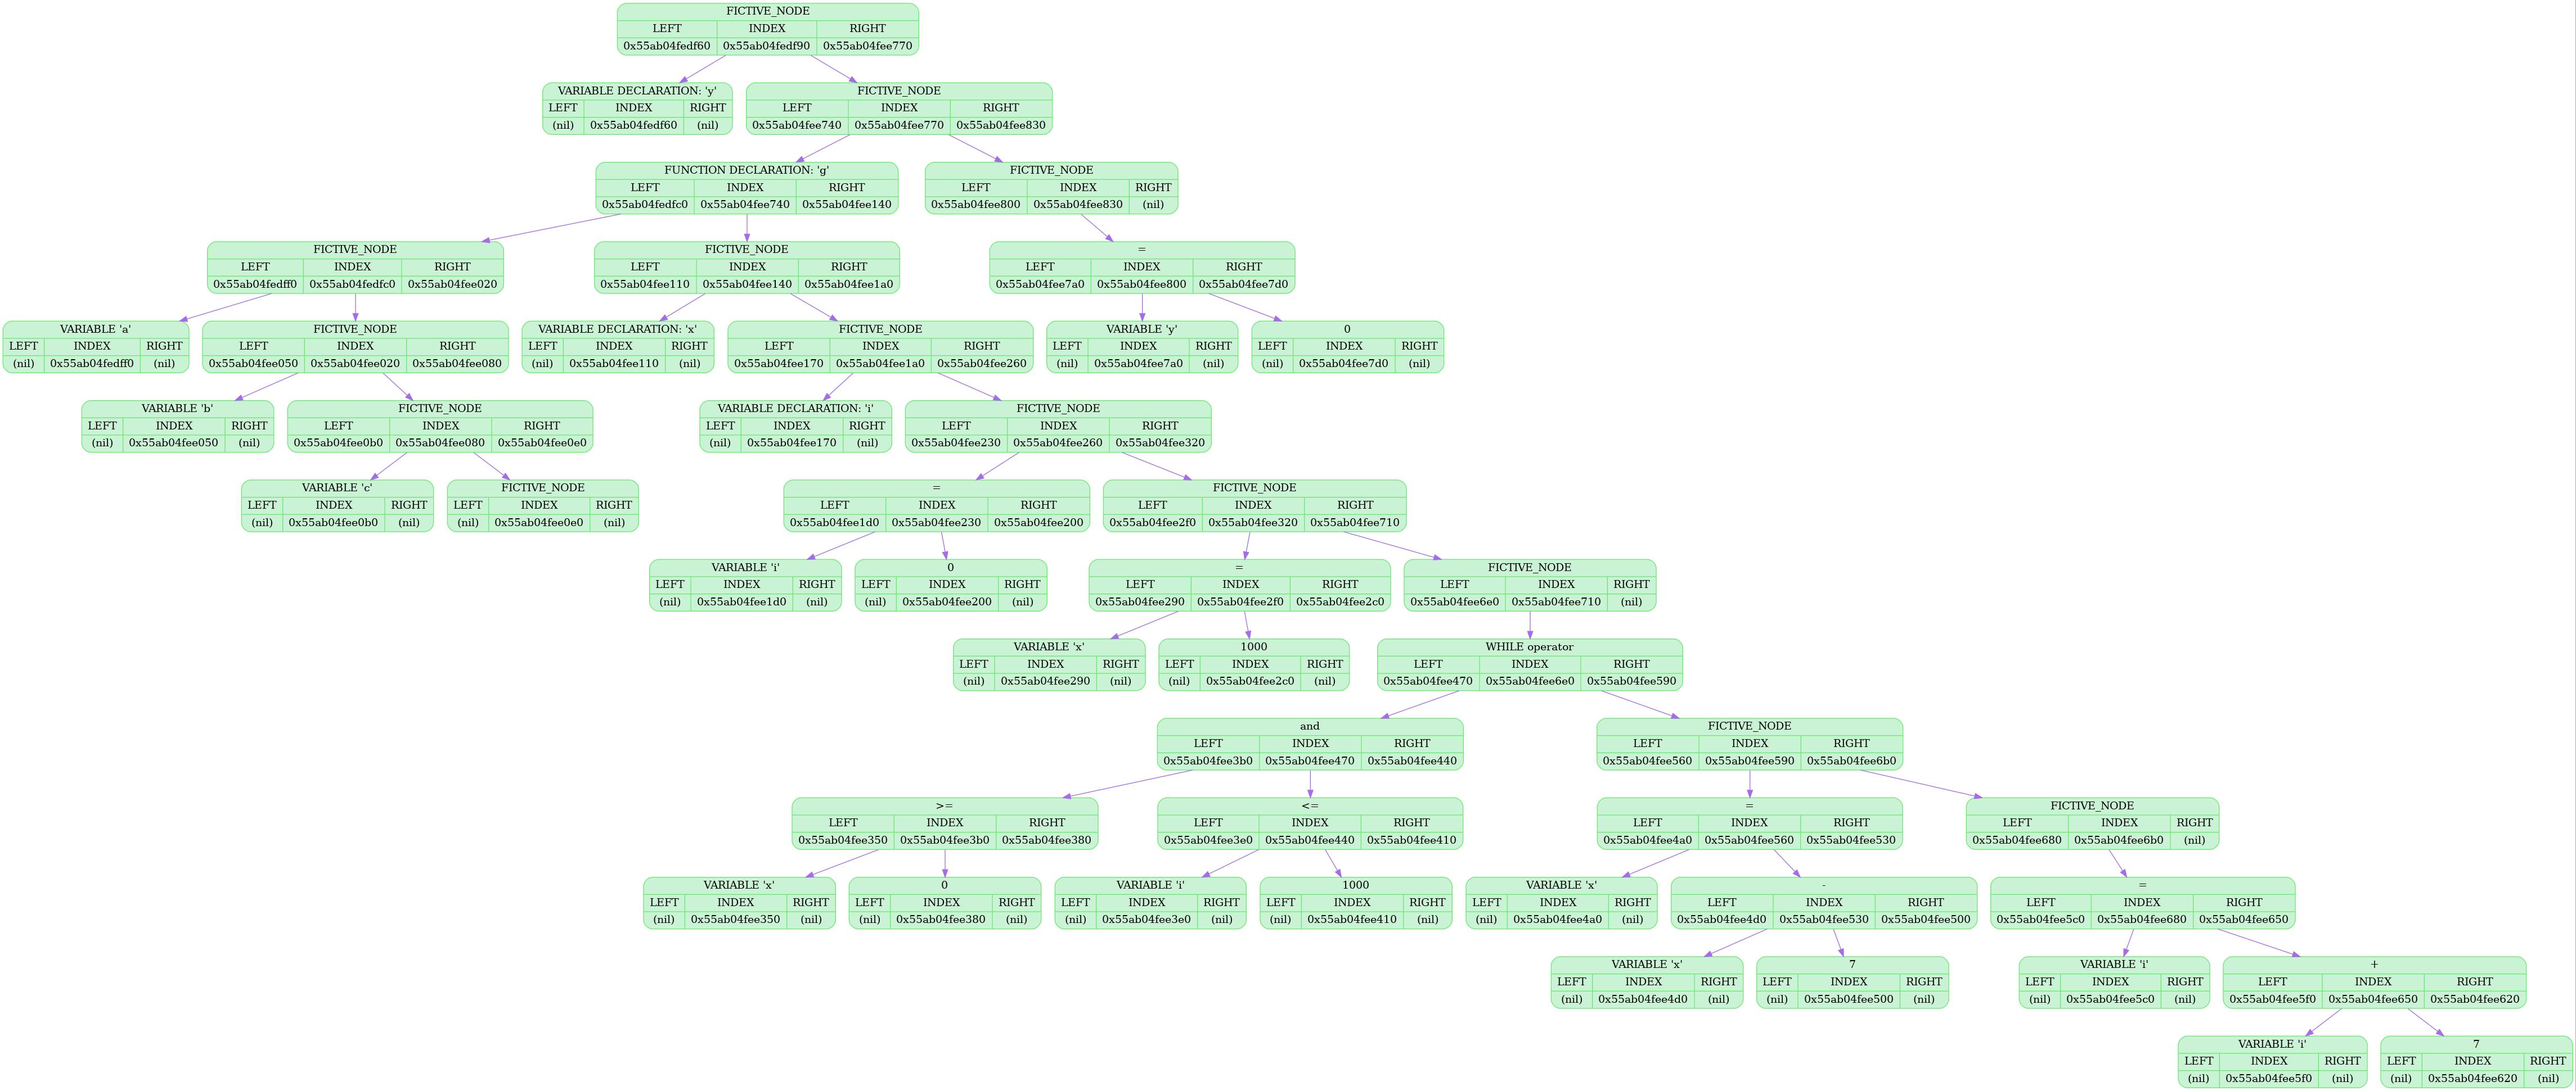
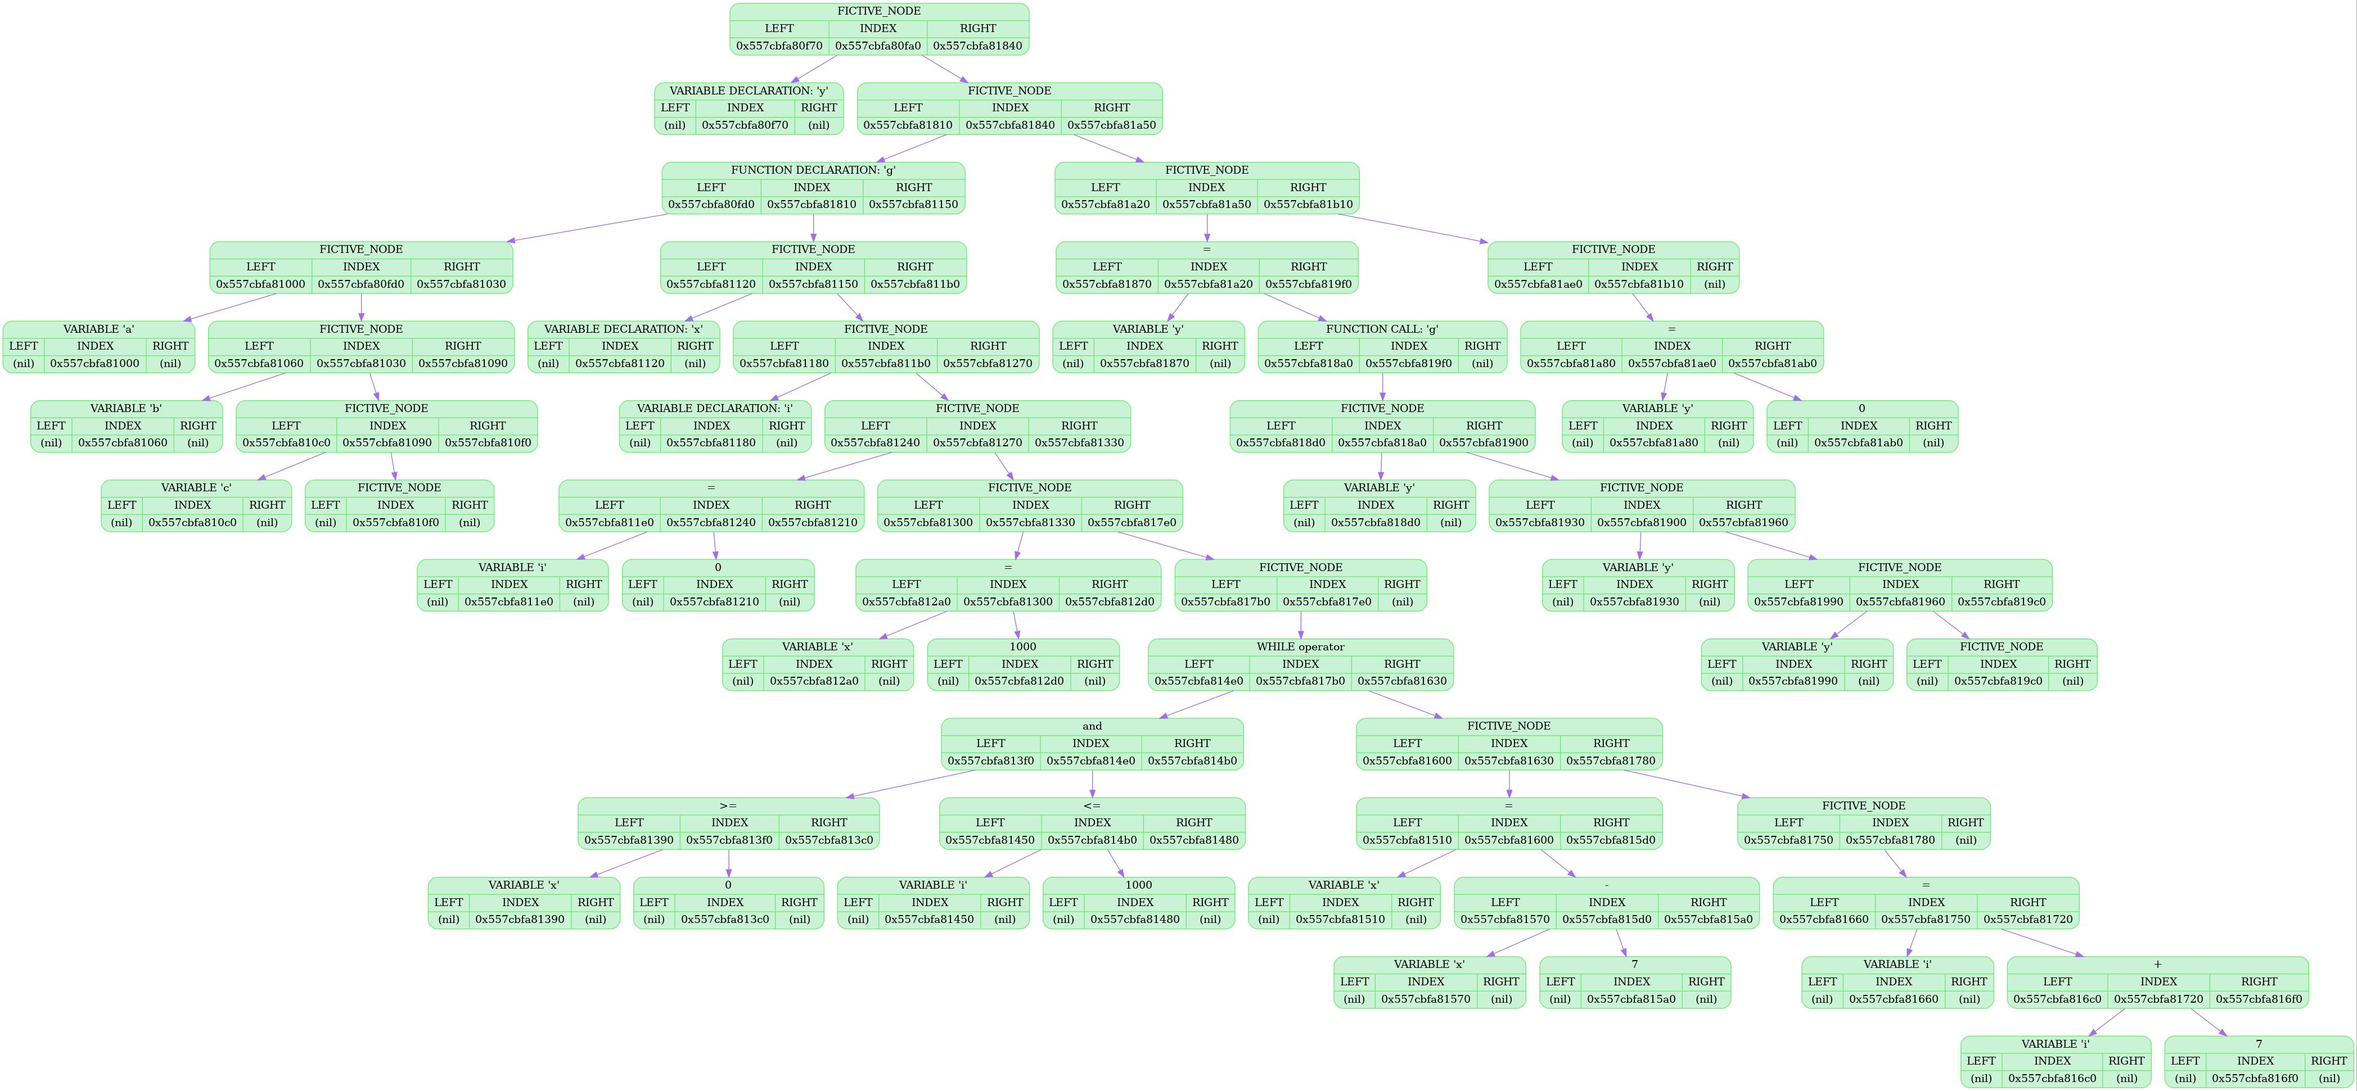
function calls added

Changed region(s): [[0.0, 0.0, 1.0, 1.0]]

diff --git a/tree/recursive_descent.cpp b/tree/recursive_descent.cpp
@@ -421,6 +421,61 @@ Node *getDefFunction(Tokens *tokens,
     return nullptr;
 }
 
+Node *getCallFunction(Tokens *tokens,
+                     size_t *index,
+                     char (*name_table)[BUFFER_SIZE][BUFFER_SIZE])
+{
+    if (TOKEN.type == KEYWORD_TOKEN)
+    {
+        size_t func_id = TOKEN.value.id_in_table;
+        (*index)++;
+
+        Node *params_root = createNode(FICTIVE_NODE,
+                                       {},
+                                       nullptr,
+                                       nullptr);
+        Node *params_last = params_root;
+
+        if (TOKEN.value.bracket != '(')
+        {
+            (*index)--;
+            return nullptr;
+        }
+
+        (*index)++;
+
+        while (TOKEN.value.bracket != ')')
+        {
+            params_last->left = getVariable(tokens, index, name_table);
+            params_last->right = createNode(FICTIVE_NODE,
+                                            {},
+                                            nullptr,
+                                            nullptr);
+            params_last = params_last->right;
+            if (TOKEN.value.bracket == ')')
+                break;
+            ASSERT_OK(TOKEN.value.bracket == ',',
+                      "Expected ',', but got _%c_\n",
+                      TOKEN.value.bracket)
+            (*index)++;
+
+        }
+
+        ASSERT_OK(TOKEN.value.bracket == ')',
+                  "Expected ), but got _%c_\n",
+                  TOKEN.value.bracket)
+        (*index)++;
+
+
+        Node *func_call_node = createNode(CALL,
+                                         {.def_value = func_id},
+                                         params_root,
+                                         nullptr);
+        return func_call_node;//createNode(FICTIVE_NODE, {}, func_call_node, func_call_node);
+    }
+    return nullptr;
+}
+
 Node *getPrimaryExpression(Tokens *tokens,
                            size_t *index,
                            char (*name_table)[BUFFER_SIZE][BUFFER_SIZE])
@@ -445,6 +500,10 @@ Node *getPrimaryExpression(Tokens *tokens,
     value = getDefFunction(tokens, index, name_table);
     if (value)
         return value;
+    value = getCallFunction(tokens, index, name_table);
+    if (value)
+        return value;
+
     if (TOKEN.type == BRACKET_TOKEN &&
         TOKEN.value.bracket == '{')
     {

diff --git a/tree/recursive_descent.h b/tree/recursive_descent.h
@@ -78,6 +78,10 @@ Node *getDefFunction(Tokens *tokens,
                      size_t *index,
                      char (*name_table)[BUFFER_SIZE][BUFFER_SIZE]);
 
+Node *getCallFunction(Tokens *tokens,
+                      size_t *index,
+                      char (*name_table)[BUFFER_SIZE][BUFFER_SIZE]);
+
 Node *getPrimaryExpression(Tokens *tokens,
                            size_t *index,
                            char (*name_table)[BUFFER_SIZE][BUFFER_SIZE]);

diff --git a/main.cpp b/main.cpp
@@ -47,7 +47,6 @@ int main()
 
     tree.root = readRecursiveDescentNode(&tokens, &name_table);
     treeDump(&tree, &name_table);
-
     treeDtor(&tree);
     dtorTokens(&tokens);
     treeCloseLogFile();
